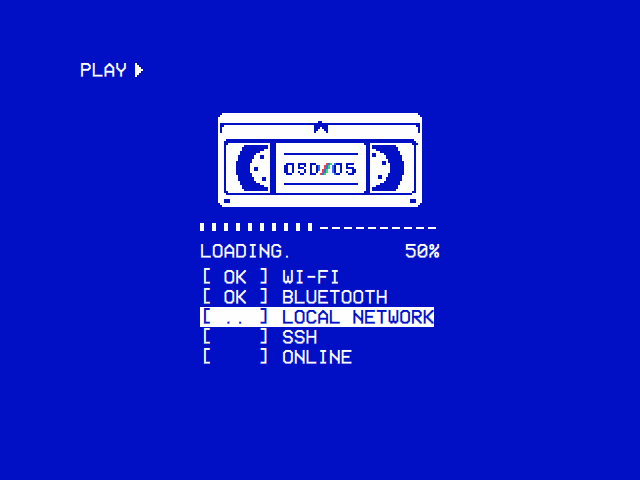
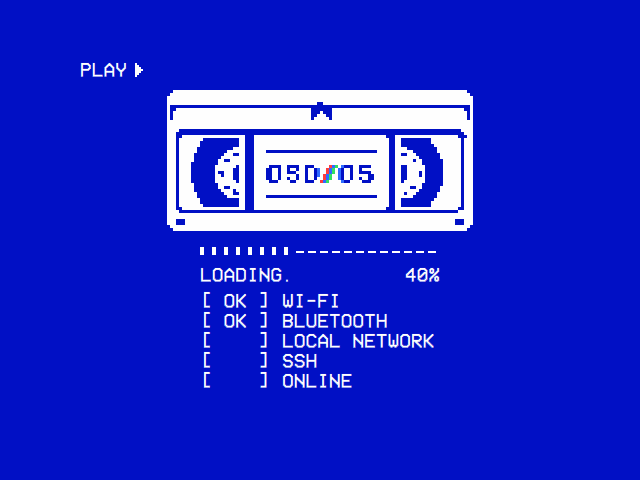
feat: the boot screen's cassette larger, its reels the drawing's own
The owner found the cassette too small and too far from their drawing.

It stands half as large again now (306 × 141 at 640×480, the size the
drawing has it on screen), and the windows show the drawing's own reels:
their hubs with the holes and the spindle as drawn, in place of the
painted hub and its turning teeth. Only the tape moves: its disc is cut
to the reel's radius, so the left pack winds off onto the right one as
the progress says, and the shell shows behind an emptying reel as the
drawing has it behind a full one's edge.

Claude-Session: https://claude.ai/code/session_01BPj7F5bUAW2FbHbUrDiQbs

Changed region(s): [[0.25, 0.1875, 0.75, 0.8125]]

diff --git a/views/Components/VhsCassette.qml b/views/Components/VhsCassette.qml
@@ -7,15 +7,13 @@ import QtQuick
 // colours), the window either side of it with the tape wound on a reel around
 // an ink hub, and the two feet. As `progress` goes from 0 to 1 the tape winds
 // off the left (supply) reel onto the right (take-up) one, so the left pack
-// shrinks while the right one grows. Each reel turns at the speed its tape
-// radius gives it, the full reel slowly and the nearly empty one fast, like a
-// real deck.
+// shrinks while the right one grows.
 //
 // The art is a grid of cells (`art`, a character a cell: '#' ink, '.' clear,
 // 'r', 'b' and 'g' the slash's colours), each drawn as a pixelSize × pixelSize
 // block, so the picture stays crisp at any integer scale (and a single-pixel
 // line never lands on one interlaced CRT field). The shell is painted once;
-// only the two reel windows are repainted per tick.
+// the two reel windows are repainted as the tape moves.
 Item {
     id: cassette
 
@@ -23,16 +21,15 @@ Item {
     property int pixelSize: 3
     // 0 = all of the tape on the left reel, 1 = all of it on the right.
     property real progress: 0
-    property bool running: visible
 
     // The one colour drawn; everything else is the background. The host sets
     // it to the theme's text colour.
     property string ink: "#ffffff"
     readonly property var slashColours: ({ "r": "#ff3d3d", "b": "#2f6bff", "g": "#2fe063" })
 
-    // The drawing, 102 × 47 cells (assets: the owner's osdos-vhs-acilis.png,
-    // sampled a cell per 6 of its pixels). The windows' interiors are left
-    // clear here: the reels are painted into them.
+    // The drawing, 102 × 47 cells (the owner's osdos-vhs-acilis.png, sampled
+    // a cell per 6 of its pixels), the reels full as drawn: the windows show
+    // their tape wound off as the progress says.
     readonly property var art: [
         "..##################################################################################################..",
         ".####################################################################################################.",
@@ -50,29 +47,29 @@ Item {
         "####..............................................................................................####",
         "###................................................................................................###",
         "###..#####################...############################################...#####################...##",
-        "###.#....................#...#############################################..#....................#.###",
-        "###.#....................#...#############################################..#....................#.###",
-        "###.#....................#...#############################################..#....................#.###",
-        "###.#....................#...#############################################..#....................#.###",
-        "###.#....................#...####.....................................####..#....................#.###",
-        "###.#....................#...#############################################..#....................#.###",
-        "###.#....................#...#############################################..#....................#.###",
-        "###.#....................#...#############################################..#....................#.###",
-        "###.#....................#...#############################################..#....................#.###",
-        "###.#....................#...#####....##....##...#####rbg#b...##....######..#....................#.###",
-        "###.#....................#...####..##.##.##.##.##.b##rbg#b.##.##.#########..#....................#.###",
-        "###.#....................#...####..##.##...###.##.b##rbg#b.##.##....######..#....................#.###",
-        "###.#....................#...####..##.#####.##.##.b#rbg##b.##.#####..#####..#....................#.###",
-        "###.#....................#...####..##.##.##.##.##.##rbg##b.##.##.##..#####..#....................#.###",
-        "###.#....................#...#####...####..###...##rbg####b..####...######..#....................#.###",
-        "###.#....................#...#############################################..#....................#.###",
-        "###.#....................#...#############################################..#....................#.###",
-        "###.#....................#...#############################################..#....................#.###",
-        "###.#....................#...#############################################..#....................#.###",
-        "###.#....................#...####.....................................####..#....................#.###",
-        "###.#....................#...#############################################..#....................#.###",
-        "###.#....................#...#############################################..#....................#.###",
-        "###.#....................#...#############################################..#....................#.###",
+        "###.######..............##...#############################################..##..............######.###",
+        "###.#####...............##...#############################################..##...............#####.###",
+        "###.####................##...#############################################..##................####.###",
+        "###.###...............####...#############################################..####...............###.###",
+        "###.###.............######...####.....................................####..######.............###.###",
+        "###.##.............###..##...#############################################..##..###.............##.###",
+        "###.##............########...#############################################..########............##.###",
+        "###.#............##..#####...#############################################..######.##............#.###",
+        "###.#............#########...#############################################..#########............#.###",
+        "###.#...........#######.##...#####....##....##...#####rbg#b...##....######..##..######...........#.###",
+        "###.#...........######..##...####..##.##.##.##.##.b##rbg#b.##.##.#########..##..######...........#.###",
+        "###.#...........#..###..##...####..##.##...###.##.b##rbg#b.##.##....######..##..####.#...........#.###",
+        "###.#...........##.###..##...####..##.#####.##.##.b#rbg##b.##.#####..#####..##..####.#...........#.###",
+        "###.#...........######..##...####..##.##.##.##.##.##rbg##b.##.##.##..#####..##..######...........#.###",
+        "###.#...........#######.##...#####...####..###...##rbg####b..####...######..##.#######...........#.###",
+        "###.#............#########...#############################################..#########............#.###",
+        "###.##...........##..#####...#############################################..#####..##...........##.###",
+        "###.##............####.###...#############################################..########............##.###",
+        "###.###............###..##...#############################################..###.###............###.###",
+        "###.###.............######...####.....................................####..######.............###.###",
+        "###.####................##...#############################################..##................####.###",
+        "###.#####...............##...#############################################..##...............#####.###",
+        "###.######..............##...#############################################..##..............######.###",
         "###..#####################...############################################...#####################..###",
         "####.............................................................................................#####",
         "######################################################################################################",
@@ -89,7 +86,7 @@ Item {
     height: gridHeight * pixelSize
 
     // --- Geometry (grid cells, inclusive bounds) ---
-    // The windows' interiors; their frames are in the art.
+    // The windows' interiors, where the tape shows.
     readonly property int windowY0: 16
     readonly property int windowY1: 38
     readonly property int leftWindowX0: 5
@@ -98,19 +95,14 @@ Item {
     readonly property int windowHeight: windowY1 - windowY0 + 1
     // Reel centres sit on the frame between each window and the label, so
     // the frame and the label hide the inner half of each reel, as in the
-    // drawing.
+    // drawing, whose hubs (with their holes) the art keeps.
     readonly property real leftReelX: leftWindowX0 + windowWidth + 0.5
     readonly property real rightReelX: rightWindowX0 - 0.5
     readonly property real reelY: (windowY0 + windowY1 + 1) / 2
-    // Radii that rest on screen are kept off half-integers: those leave a
-    // one-cell nub on the circle's outer edge.
-    readonly property real hubRadius: 9.4
-    readonly property real toothRadius: 6.6
-    readonly property real emptyRadius: 11.3  // a reel never shows bare hub
+    // The tape's radius: full as the drawing has it, and never bare hub.
+    // Kept off half-integers, which leave a one-cell nub on the circle's edge.
+    readonly property real emptyRadius: 11.3
     readonly property real fullRadius: 20.4
-    // Linear tape speed in grid cells per second; each reel's angular speed is
-    // this over its current tape radius.
-    readonly property real tapeSpeed: 20
 
     // Tape radius on each reel for the current progress. The tape's area is
     // conserved, so the radii follow the square root, not a straight line.
@@ -121,9 +113,6 @@ Item {
     }
     readonly property real leftRadius:  reelRadius(1 - progress)
     readonly property real rightRadius: reelRadius(progress)
-
-    property real leftAngle: 0
-    property real rightAngle: 0
 
     // Paints `w` × `h` cells through colorAt(x, y), merging horizontal runs of
     // one colour into a single fillRect; "" leaves a cell transparent.
@@ -163,29 +152,16 @@ Item {
     }
 
     // Colours the reel window that starts at column x0, for a reel centred on
-    // column cx: clear tape out to the reel's radius, then the ink hub with six
-    // clear 2×2 teeth that turn with the reel and make the turning visible.
-    function reelPainter(x0, cx, tapeRadius, angle) {
-        var teeth = []
-        for (var i = 0; i < 6; ++i) {
-            var a = angle + i * Math.PI / 3
-            teeth.push([Math.round(cx + toothRadius * Math.cos(a) - 1),
-                        Math.round(reelY + toothRadius * Math.sin(a) - 1)])
-        }
+    // column cx: the drawing's own cells (the hub and its holes, the shell at
+    // the corners), but the tape only out to the reel's radius; beyond it the
+    // shell shows, as it does behind an empty reel.
+    function reelPainter(x0, cx, tapeRadius) {
         return function(lx, ly) {
             var x = x0 + lx, y = windowY0 + ly
-            var dx = x + 0.5 - cx, dy = y + 0.5 - reelY
-            var r2 = dx * dx + dy * dy
-            if (r2 > tapeRadius * tapeRadius)
+            if (art[y].charAt(x) === "#")
                 return ink
-            if (r2 > hubRadius * hubRadius)
-                return ""
-            for (var t = 0; t < teeth.length; ++t) {
-                if (x - teeth[t][0] >= 0 && x - teeth[t][0] <= 1
-                        && y - teeth[t][1] >= 0 && y - teeth[t][1] <= 1)
-                    return ""
-            }
-            return ink
+            var dx = x + 0.5 - cx, dy = y + 0.5 - reelY
+            return dx * dx + dy * dy > tapeRadius * tapeRadius ? ink : ""
         }
     }
 
@@ -214,7 +190,7 @@ Item {
             ctx.reset()
             cassette.paintCells(ctx, cassette.windowWidth, cassette.windowHeight,
                                 cassette.reelPainter(cassette.leftWindowX0, cassette.leftReelX,
-                                                     cassette.leftRadius, cassette.leftAngle))
+                                                     cassette.leftRadius))
         }
     }
 
@@ -231,7 +207,7 @@ Item {
             ctx.reset()
             cassette.paintCells(ctx, cassette.windowWidth, cassette.windowHeight,
                                 cassette.reelPainter(cassette.rightWindowX0, cassette.rightReelX,
-                                                     cassette.rightRadius, cassette.rightAngle))
+                                                     cassette.rightRadius))
         }
     }
 
@@ -244,22 +220,4 @@ Item {
     onInkChanged: repaintAll()
     onLeftRadiusChanged: leftWindow.requestPaint()
     onRightRadiusChanged: rightWindow.requestPaint()
-
-    // ~15 fps keeps the motion choppy in the way old OSD graphics were, and
-    // costs next to nothing. Both reels turn anticlockwise, as they do while a
-    // deck plays: the tape leaves the left reel and arrives on the right one
-    // along the front edge.
-    Timer {
-        interval: 66
-        repeat: true
-        running: cassette.running
-        onTriggered: {
-            var dt = interval / 1000
-            var full = 2 * Math.PI
-            cassette.leftAngle  = (cassette.leftAngle  - dt * cassette.tapeSpeed / cassette.leftRadius)  % full
-            cassette.rightAngle = (cassette.rightAngle - dt * cassette.tapeSpeed / cassette.rightRadius) % full
-            leftWindow.requestPaint()
-            rightWindow.requestPaint()
-        }
-    }
 }

diff --git a/views/BootScreen.qml b/views/BootScreen.qml
@@ -109,9 +109,9 @@ FocusScope {
 
     VhsCassette {
         id: cassette
-        // On the same 240-line pixel grid as the rest of the on-screen display:
-        // 160×92 at 640×480.
-        pixelSize: root.px
+        // Half as large again as the on-screen display's pixel grid, the size
+        // the owner's drawing has it: 306×141 at 640×480.
+        pixelSize: root.px + Math.floor(root.px / 2)
         ink: root.primaryColor
         x: Math.round((root.sw - width) / 2)
         y: bootRoot.blockY
